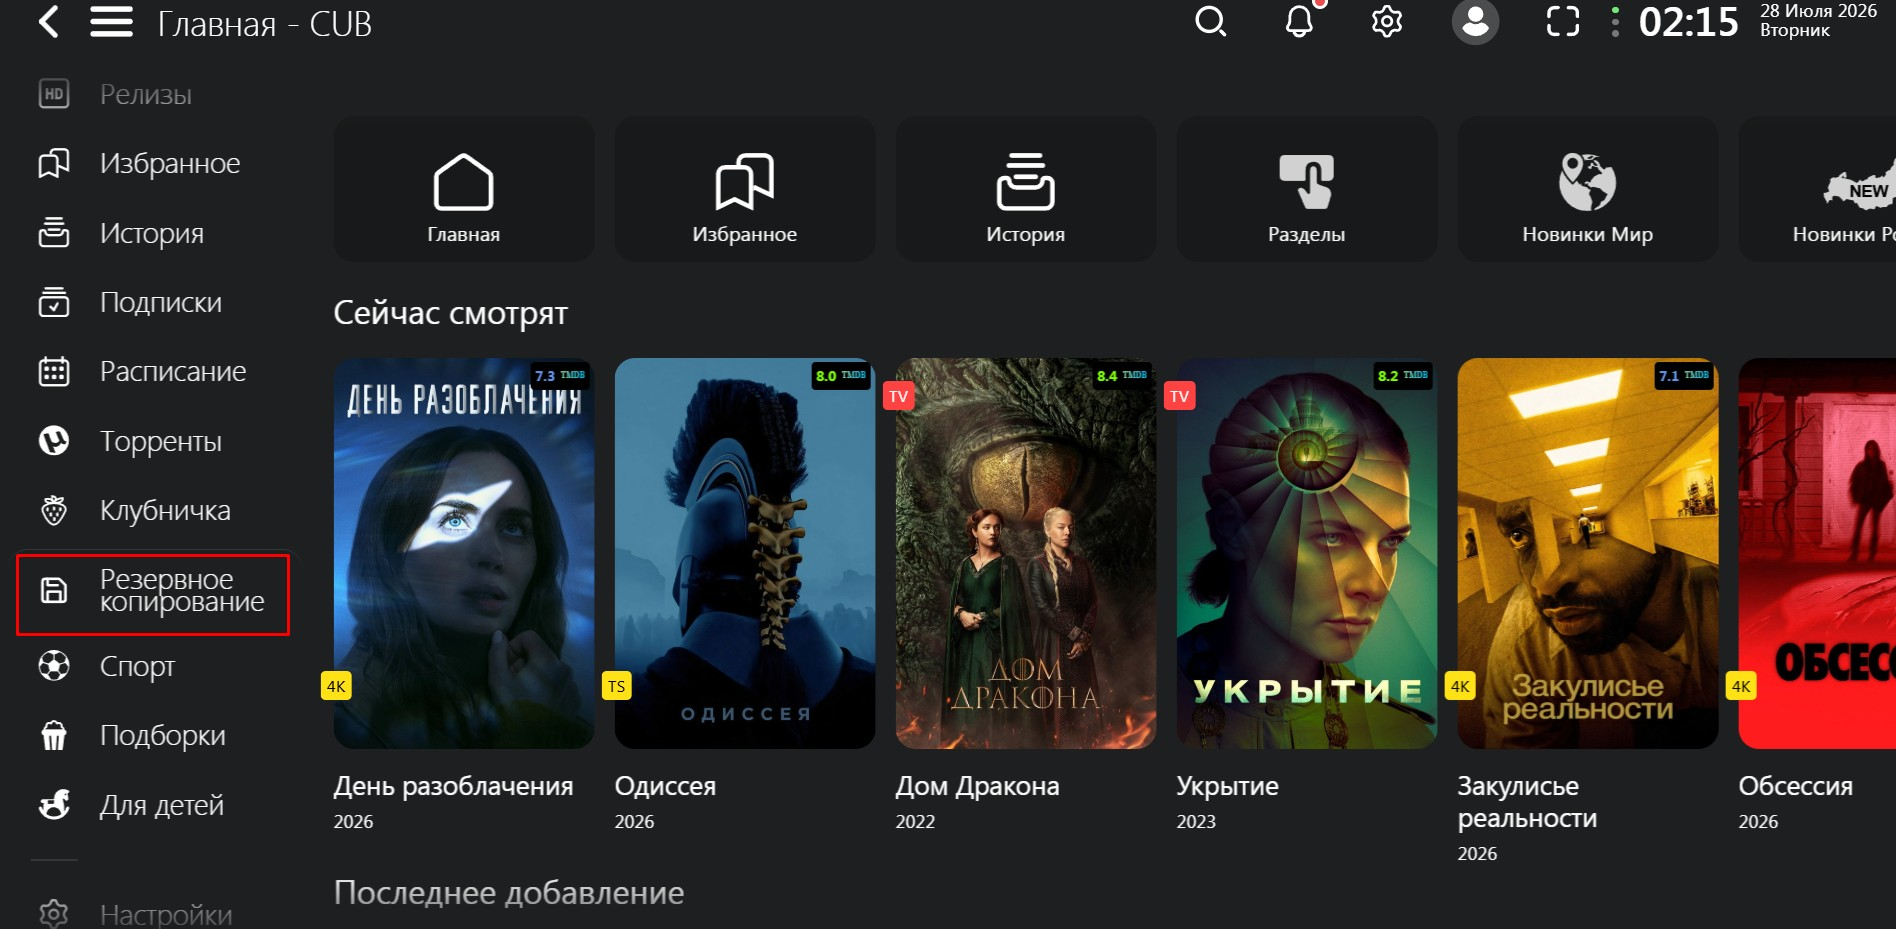
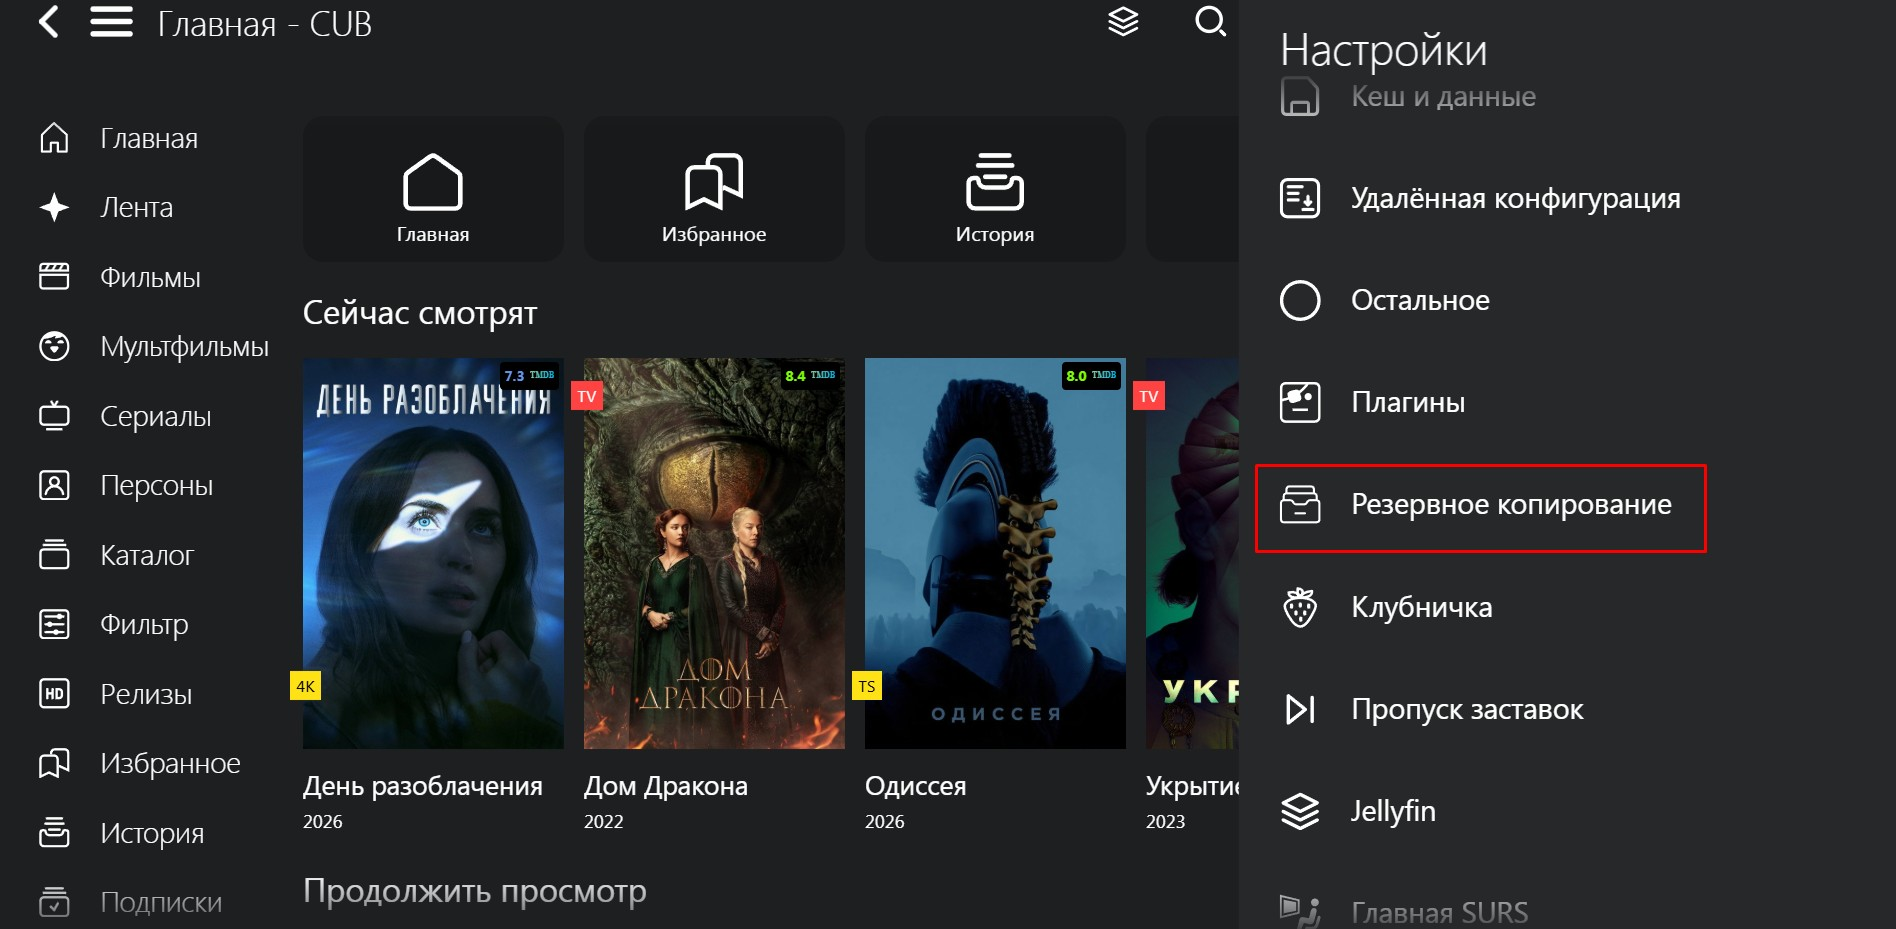
Перенос пунктов меню в настройки

diff --git a/Бэкап настроек Lampa/backup.js b/Бэкап настроек Lampa/backup.js
@@ -1,49 +1,48 @@
 (function () {
     'use strict';
 
-    // ================= CONFIGURATION =================
     var CONFIG = {
-        server_ip: '192.168.0.1',
+        server_ip: '192.168.42.9',
         server_port: '9999',
-        backup_folder: '/backup' // Путь к папке на сервере
+        backup_folder: '/backup'
     };
-    // =================================================
 
-    // Получаем или запрашиваем имя устройства
     function getDeviceName() {
         var name = localStorage.getItem('custom_device_backup_name');
         if (!name) {
-            name = 'tv_room';
-            localStorage.setItem('custom_device_backup_name', name);
+            name = ''; // Если имя пустое, возвращаем пустую строку
         }
         return name;
     }
 
-    // Функция ручного ввода имени устройства через стандартный диалог
-    function changeDeviceName(callback) {
-        Lampa.Select.close();
-        
-        var currentName = getDeviceName();
-        var userInput = window.prompt('Введите имя устройства:', currentName);
-        
-        if (userInput !== null) {
-            var sanitized = userInput.trim().replace(/[^a-zA-Z0-9_\-]/g, '_');
-            if (sanitized !== '') {
-                localStorage.setItem('custom_device_backup_name', sanitized);
-                Lampa.Noty.show('Имя изменено на: ' + sanitized);
-                if (callback) callback(sanitized);
-            } else {
-                Lampa.Noty.show('Имя не может быть пустым');
-                if (callback) callback(currentName);
+    function changeDeviceName() {
+        Lampa.Input.edit({
+            title: 'Имя устройства',
+            value: getDeviceName(),
+            free: true,
+            nosave: true
+        }, function (new_value) {
+            if (typeof new_value === 'string') {
+                var sanitized = new_value.trim().replace(/[^a-zA-Z0-9_\-]/g, '_');
+                if (sanitized !== '') {
+                    localStorage.setItem('custom_device_backup_name', sanitized);
+                    Lampa.Noty.show('Имя изменено на: ' + sanitized);
+                    $('.backup-device-name-descr').text(sanitized);
+                } else {
+                    Lampa.Noty.show('Имя не может быть пустым');
+                }
             }
-        } else {
-            if (callback) callback(currentName);
-        }
+        });
     }
 
-    // Сохранение настроек текущего устройства
     function saveEverything() {
         var name = getDeviceName();
+        if (!name) {
+            Lampa.Noty.show('Сначала укажите имя устройства!');
+            changeDeviceName();
+            return;
+        }
+
         var fullData = JSON.stringify(localStorage);
         Lampa.Noty.show('Сохранение настроек для "' + name + '"...');
 
@@ -66,13 +65,18 @@
         });
     }
 
-    // Применение загруженного текста настроек
-    function applyBackupText(text) {
+    function applyBackupText(text, isDefault) {
         try {
             var parsed = JSON.parse(text);
             for (var key in parsed) {
                 localStorage.setItem(key, parsed[key]);
             }
+
+            // Если это дефолтный файл, стираем имя устройства
+            if (isDefault) {
+                localStorage.removeItem('custom_device_backup_name');
+            }
+
             Lampa.Noty.show('Восстановлено! Перезагрузка...');
             setTimeout(function() { window.location.reload(); }, 2000);
         } catch (e) {
@@ -80,7 +84,6 @@
         }
     }
 
-    // Загрузка файла бэкапа
     function fetchAndApply(url, fallbackUrl) {
         fetch(url)
         .then(function(res) {
@@ -88,7 +91,7 @@
             return res.text();
         })
         .then(function(text) {
-            applyBackupText(text);
+            applyBackupText(text, false);
         })
         .catch(function() {
             if (fallbackUrl) {
@@ -99,9 +102,8 @@
         });
     }
 
-    // Модальное окно, если бэкапа с таким именем нет
     function showNotFoundModal(defaultUrl) {
-        var name = getDeviceName();
+        var name = getDeviceName() || 'не задано';
         var html = $(
             '<div style="position: relative;">' +
                 '<div class="backup-close-btn selector" style="position: absolute; right: -10px; top: -55px; font-size: 28px; cursor: pointer; color: #aaa; z-index: 99; padding: 10px;">&times;</div>' +
@@ -119,7 +121,6 @@
 
         function closeModal() {
             Lampa.Modal.close();
-            Lampa.Controller.toggle('menu');
         }
 
         html.find('.backup-close-btn').on('hover:enter click', function () {
@@ -127,17 +128,18 @@
         });
 
         html.find('.settings-param').eq(0).on('hover:enter click', function () {
-            Lampa.Modal.close();
+            closeModal();
             saveEverything();
         });
 
         html.find('.settings-param').eq(1).on('hover:enter click', function () {
-            Lampa.Modal.close();
+            closeModal();
             Lampa.Noty.show('Загрузка default_settings.txt...');
             fetch(defaultUrl)
             .then(function(res) { return res.text(); })
             .then(function(text) {
-                applyBackupText(text);
+                // Передаем true, чтобы имя очистилось
+                applyBackupText(text, true);
             })
             .catch(function() {
                 Lampa.Noty.show('Файл default_settings.txt тоже не найден');
@@ -152,107 +154,100 @@
                 closeModal();
             }
         });
-
-        setTimeout(function() {
-            $('.modal').off('click.close_modal').on('click.close_modal', function(e) {
-                if ($(e.target).hasClass('modal')) {
-                    closeModal();
-                }
-            });
-        }, 50);
     }
 
     function loadEverything() {
         var name = getDeviceName();
+        if (!name) {
+            Lampa.Noty.show('Сначала укажите имя устройства!');
+            changeDeviceName();
+            return;
+        }
+
         Lampa.Noty.show('Проверка бэкапа для "' + name + '"...');
-        
         var folder = CONFIG.backup_folder.replace(/\/+$/, '');
         var backupUrl = folder + '/settings_' + name + '.txt';
         var defaultUrl = folder + '/default_settings.txt';
-
         fetchAndApply(backupUrl, defaultUrl);
     }
 
-    // Функция отрисовки элементов управления в боковом меню
-    function openBackupSidebar() {
-        var name = getDeviceName();
-        
-        Lampa.Select.show({
-            title: 'Резервное копирование',
-            items: [
-                {
-                    title: 'Имя устройства',
-                    subtitle: name,
-                    action: 'change_name'
-                },
-                {
-                    title: 'Сохранить настройки',
-                    subtitle: 'Записать настройки на сервер под этим именем',
-                    action: 'save'
-                },
-                {
-                    title: 'Восстановить настройки',
-                    subtitle: 'Загрузить настройки с сервера по этому имени',
-                    action: 'load'
-                }
-            ],
-            onSelect: function (item) {
-                if (item.action === 'change_name') {
-                    changeDeviceName(function () {
-                        openBackupSidebar();
-                    });
-                } else if (item.action === 'save') {
-                    saveEverything();
-                } else if (item.action === 'load') {
-                    loadEverything();
-                }
+    function startPlugin() {
+        window.lampac_backup_plugin = true;
+
+        Lampa.Lang.add({
+            lampac_backup: {
+                ru: 'Резервное копирование',
+                en: 'Backup',
+                uk: 'Резервное копирование',
+                zh: '备份'
             },
-            onBack: function () {
-                Lampa.Controller.toggle('menu');
+            lampac_backup_export: {
+                ru: 'Сохранить настройки',
+                en: 'Save settings',
+                uk: 'Зберегти налаштування',
+                zh: '保存设置'
+            },
+            lampac_backup_import: {
+                ru: 'Восстановить настройки',
+                en: 'Restore settings',
+                uk: 'Відновити налаштування',
+                zh: '恢复设置'
+            },
+            lampac_backup_name: {
+                ru: 'Имя устройства',
+                en: 'Device name',
+                uk: 'Назва пристрою',
+                zh: '设备名称'
+            }
+        });
+
+        Lampa.SettingsApi.addComponent({
+            component: 'backup',
+            icon: '<svg width="88" height="83" viewBox="0 0 88 83" fill="none" xmlns="http://www.w3.org/2000/svg"><path d="M81.7671 30.4752V23.5114C81.7611 21.7339 81.1797 20.0062 80.11 18.5867C79.0402 17.1672 77.5396 16.1322 75.8326 15.6367V8.67441C75.8302 6.48914 74.961 4.39407 73.4158 2.84885C71.8705 1.30363 69.7755 0.43445 67.5902 0.432007H20.1098C17.9245 0.43445 15.8295 1.30363 14.2842 2.84885C12.739 4.39407 11.8698 6.48914 11.8674 8.67441V15.6367C10.1604 16.1322 8.65977 17.1672 7.59002 18.5867C6.52026 20.0062 5.9389 21.7339 5.93293 23.5114V30.4752C4.22699 30.9708 2.72724 32.0051 1.65785 33.4237C0.588461 34.8422 0.00686778 36.5688 0 38.3452V73.9536C0.00244347 76.1389 0.871622 78.2339 2.41684 79.7792C3.96207 81.3244 6.05713 82.1936 8.24241 82.196H79.4591C81.6444 82.1936 83.7395 81.3244 85.2847 79.7792C86.8299 78.2339 87.6991 76.1389 87.7015 73.9536V38.3468C87.6949 36.5698 87.1132 34.8428 86.0435 33.4239C84.9738 32.005 83.4736 30.9706 81.7671 30.4752ZM20.1113 5.04788H67.5917C68.5532 5.0491 69.4749 5.43157 70.1547 6.11141C70.8346 6.79126 71.217 7.71297 71.2183 8.67441V15.2674H16.4848V8.67441C16.486 7.71297 16.8685 6.79126 17.5483 6.11141C18.2282 5.43157 19.1499 5.0491 20.1113 5.04788ZM14.1769 19.8833H73.5247C74.4864 19.8845 75.4083 20.2672 76.0882 20.9474C76.7681 21.6275 77.1504 22.5497 77.1512 23.5114V30.1044H64.8314C63.474 30.1029 62.1373 30.4374 60.9405 31.0779C59.7437 31.7185 58.724 32.6452 57.9723 33.7755L55.5612 37.3913C55.2306 37.8885 54.782 38.2962 54.2556 38.5781C53.7291 38.86 53.1411 39.0073 52.544 39.0068H35.1575C34.5604 39.0073 33.9724 38.86 33.446 38.5781C32.9195 38.2962 32.471 37.8885 32.1403 37.3913L29.7293 33.7755C28.9776 32.6452 27.9579 31.7185 26.7611 31.0779C25.5643 30.4374 24.2275 30.1029 22.8701 30.1044H10.5503V23.5129C10.5512 22.5512 10.9334 21.6291 11.6133 20.9489C12.2932 20.2687 13.2152 19.886 14.1769 19.8848V19.8833ZM83.0857 73.9551C83.0844 74.9166 82.702 75.8383 82.0221 76.5181C81.3423 77.198 80.4206 77.5804 79.4591 77.5817H8.24241C7.28096 77.5804 6.35925 77.198 5.67941 76.5181C4.99956 75.8383 4.61709 74.9166 4.61587 73.9551V38.3468C4.61709 37.3853 4.99956 36.4636 5.67941 35.7838C6.35925 35.1039 7.28096 34.7215 8.24241 34.7202H22.8701C23.4675 34.7194 24.0559 34.8665 24.5826 35.1484C25.1094 35.4303 25.5582 35.8382 25.8889 36.3358L28.2999 39.9516C29.0515 41.0816 30.0709 42.0082 31.2674 42.6488C32.464 43.2893 33.8004 43.6239 35.1575 43.6227H52.544C53.9012 43.6239 55.2376 43.2893 56.4341 42.6488C57.6306 42.0082 58.6501 41.0816 59.4016 39.9516L61.8127 36.3358C62.1434 35.8382 62.5921 35.4303 63.1189 35.1484C63.6456 34.8665 64.234 34.7194 64.8314 34.7202H79.4591C80.4206 34.7215 81.3423 35.1039 82.0221 35.7838C82.702 36.4636 83.0844 37.3853 83.0857 38.3468V73.9551Z" fill="white"/><path d="M54.2365 58.295H33.465C32.8529 58.295 32.2659 58.5382 31.8331 58.971C31.4003 59.4038 31.1571 59.9909 31.1571 60.603C31.1571 61.2151 31.4003 61.8021 31.8331 62.2349C32.2659 62.6678 32.8529 62.9109 33.465 62.9109H54.2365C54.8486 62.9109 55.4356 62.6678 55.8684 62.2349C56.3012 61.8021 56.5444 61.2151 56.5444 60.603C56.5444 59.9909 56.3012 59.4038 55.8684 58.971C55.4356 58.382 54.8486 58.295 54.2365 58.295Z" fill="white"/></svg>',
+            name: Lampa.Lang.translate('lampac_backup')
+        });
+
+        Lampa.SettingsApi.addParam({
+            component: 'backup',
+            param: {
+                type: 'button'
+            },
+            field: {
+                name: Lampa.Lang.translate('lampac_backup_name'),
+                description: '<span class="backup-device-name-descr">' + getDeviceName() + '</span>'
+            },
+            onChange: function() {
+                changeDeviceName();
+            }
+        });
+
+        Lampa.SettingsApi.addParam({
+            component: 'backup',
+            param: {
+                type: 'button'
+            },
+            field: {
+                name: Lampa.Lang.translate('lampac_backup_export'),
+            },
+            onChange: function() {
+                saveEverything();
+            }
+        });
+
+        Lampa.SettingsApi.addParam({
+            component: 'backup',
+            param: {
+                type: 'button'
+            },
+            field: {
+                name: Lampa.Lang.translate('lampac_backup_import'),
+            },
+            onChange: function() {
+                loadEverything();
             }
         });
     }
 
-    function initMenuButtons() {
-        $('.menu__list').each(function() {
-            var menuList = $(this);
-            if (menuList.find('.backup-menu-btn').length > 0) return;
+    if (!window.lampac_backup_plugin) startPlugin();
 
-            var btnBackup = $(
-                '<div class="menu__item selector backup-menu-btn" style="border-top: 1px solid rgba(255,255,255,0.1); margin-top: 5px;">' +
-                    '<div class="menu__ico">' +
-                        '<svg xmlns="http://www.w3.org/2000/svg" width="24" height="24" viewBox="0 0 24 24" fill="none" stroke="currentColor" stroke-width="2" stroke-linecap="round" stroke-linejoin="round"><path d="M19 21H5a2 2 0 0 1-2-2V5a2 2 0 0 1 2-2h11l5 5v11a2 2 0 0 1-2 2z"></path><polyline points="17 21 17 13 7 13 7 21"></polyline><polyline points="7 3 7 8 15 8"></polyline></svg>' +
-                    '</div>' +
-                    '<div class="menu__text">Резервное копирование</div>' +
-                '</div>'
-            );
-
-            btnBackup.on('hover:enter click', function () {
-                openBackupSidebar();
-            });
-
-            menuList.append(btnBackup);
-        });
-
-        var allBtns = $('.backup-menu-btn');
-        if (allBtns.length > 1) {
-            allBtns.slice(1).remove();
-        }
-    }
-
-    Lampa.Listener.follow('menu', function (e) {
-        if (e.type === 'render') {
-            initMenuButtons();
-        }
-    });
-
-    if (window.appready) {
-        initMenuButtons();
-    } else {
-        Lampa.Listener.follow('app', function (e) {
-            if (e.type == 'ready') {
-                initMenuButtons();
-            }
-        });
-    }
 })();

diff --git a/Бэкап настроек Lampa/README.md b/Бэкап настроек Lampa/README.md
@@ -75,7 +75,7 @@ var CONFIG = {
 
 ## Использование
 
-После установки плагина в боковом меню Lampa появится новый пункт **«Резервное копирование»**. При нажатии на него откроется меню с тремя опциями:
+После установки плагина в меню настроек Lampa появится новый пункт **«Резервное копирование»**. При нажатии на него откроется меню с тремя опциями:
 
 * **Имя устройства** — позволяет посмотреть или изменить текущее имя устройства (используется в названии файла бэкапа, при указании того же имени - позволяет переносить настройки между устройствами).
 * **Сохранить настройки** — выгружает текущий `localStorage` вашего клиента Lampa на сервер.
